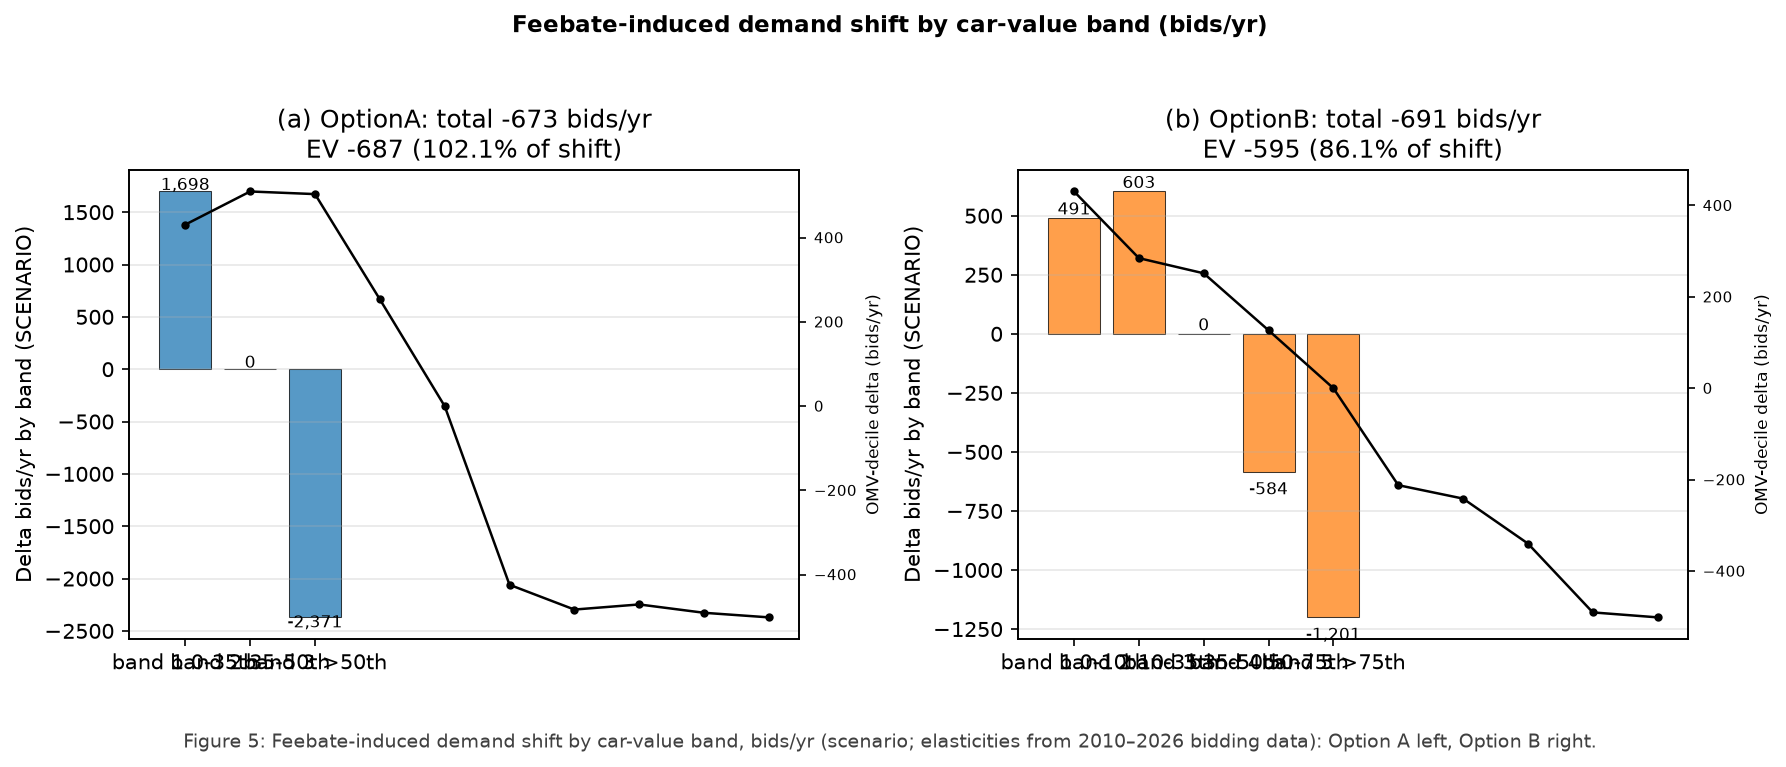
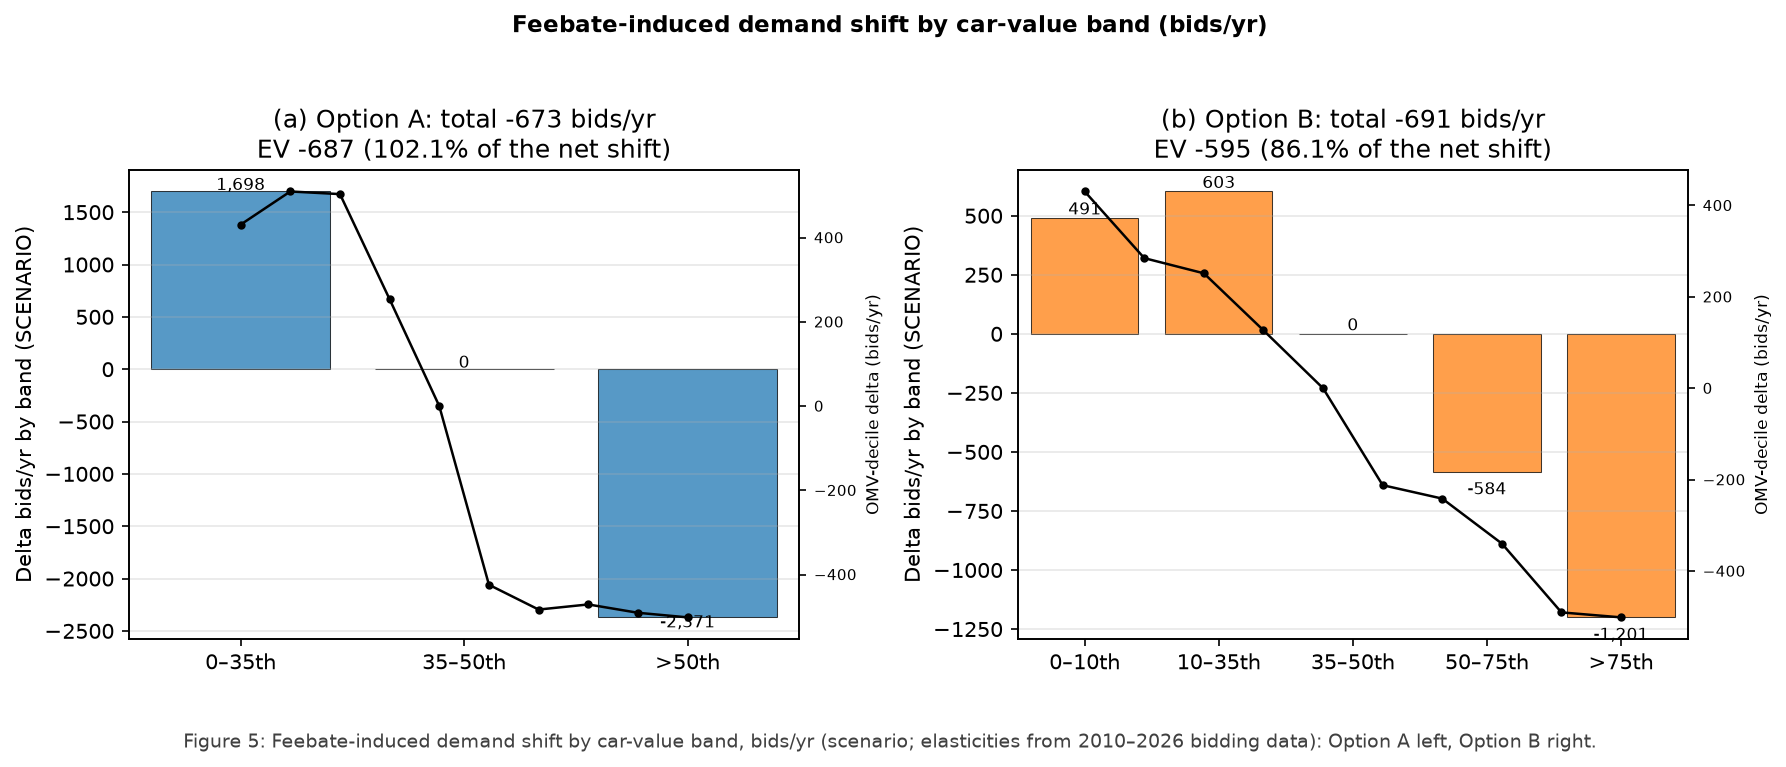
Figure 5: fix garbled x-axis labels. Root cause: the OMV-decile line (10 pts, x=0..9) stretched the shared x-axis, crowding the 3/5 bars into the left quarter of each panel and colliding the tick labels (measured 33-40px overlaps). Map the deciles across the band domain and pin xlim so the bars span

diff --git a/src/make_charts.py b/src/make_charts.py
@@ -358,20 +358,29 @@ def fig5():
     for (ax, opt, col), lab in zip(((ax1, "OptionA", "#1f77b4"), (ax2, "OptionB", "#ff7f0e")), "ab"):
         sub = [r for r in rowsd if r[ixd["feebate_option"]] == opt]
         bands = [r for r in sub if r[ixd["dimension"]] == "band"]
-        labels = [r[ixd["value"]].replace("band", "band ").replace("_", " ") for r in bands]
+
+        def _bandlab(v):
+            # 'band2_35-50th' -> '35–50th' (README Tables 2/3 percentile wording)
+            return v.split("_", 1)[1].replace("-", "–")
+        labels = [_bandlab(r[ixd["value"]]) for r in bands]
         dvals = [f(r[ixd["delta_bids_per_year"]]) for r in bands]
         ax.bar(labels, dvals, color=col, alpha=0.75, edgecolor="k", lw=0.5)
         for i, v in enumerate(dvals):
             ax.text(i, v + (15 if v >= 0 else -95), f"{v:,.0f}", ha="center", fontsize=8)
-        dec = [(i, f(r[ixd["delta_bids_per_year"]])) for i, r in enumerate(
-            [x for x in sub if x[ixd["dimension"]] == "omv_decile"])]
+        decrows = [x for x in sub if x[ixd["dimension"]] == "omv_decile"]
+        # Map the 10 deciles (cheapest -> priciest) across the full width of
+        # the band domain, so the line spans the bars instead of stretching
+        # the axis out to 10 units and crowding the bars into a quarter panel
+        dec = [(i / 9 * (len(bands) - 1), f(r[ixd["delta_bids_per_year"]]))
+               for i, r in enumerate(decrows)]
         ax2p = ax.twinx()
         ax2p.plot([d[0] for d in dec], [d[1] for d in dec], "-", color="k", lw=1.2, marker="o", ms=3, label="OMV decile shift")
         ax2p.set_ylabel("OMV-decile delta (bids/yr)", fontsize=8)
         ax2p.tick_params(labelsize=7)
+        ax.set_xlim(-0.5, len(bands) - 0.5)
         tot = f([r for r in sub if r[ixd["dimension"]] == "TOTAL"][0][ixd["delta_bids_per_year"]])
         ev = f([r for r in sub if r[ixd["dimension"]] == "fuel" and r[ixd["value"]] == "EV"][0][ixd["delta_bids_per_year"]])
-        ax.set_title(f"({lab}) {opt}: total {tot:,.0f} bids/yr\nEV {ev:,.0f} ({ev/tot*100:.1f}% of shift)")
+        ax.set_title(f"({lab}) Option {opt[-1]}: total {tot:,.0f} bids/yr\nEV {ev:,.0f} ({ev/tot*100:.1f}% of the net shift)")
         ax.set_ylabel("Delta bids/yr by band (SCENARIO)")
         ax.grid(alpha=0.3, axis="y")
     mkfig("demand_shift_by_band.png",

diff --git a/README.md b/README.md
@@ -394,10 +394,13 @@ Option B right.
 
 ![Feebate-induced demand shift by car-value band (bids/yr)](charts/demand_shift_by_band.png)
 
-*Bars: the change in bids per year by feebate band. The overlaid line is
-the same shift expressed along OMV deciles. Elasticities are
-first-difference estimates from 16 years of per-bidding data, graded
-A=MEDIUM, B=LOW — scenario inputs, not causal claims.*
+*Bars: the change in bids per year by feebate band — the percentile cut
+points of the 2025 mix (Tables 2–3; e.g. "0–35th" = OMV between the 0th
+and 35th percentiles of the mix). The overlaid line is the same shift
+expressed along OMV deciles (one decile = 10% of the mix), spanned
+across the full width from the cheapest decile to the priciest.
+Elasticities are first-difference estimates from 16 years of per-bidding
+data, graded A=MEDIUM, B=LOW — scenario inputs, not causal claims.*
 
 ### 4.6 If the feebate applies to renewals, it flips to a net cost to the government
 
